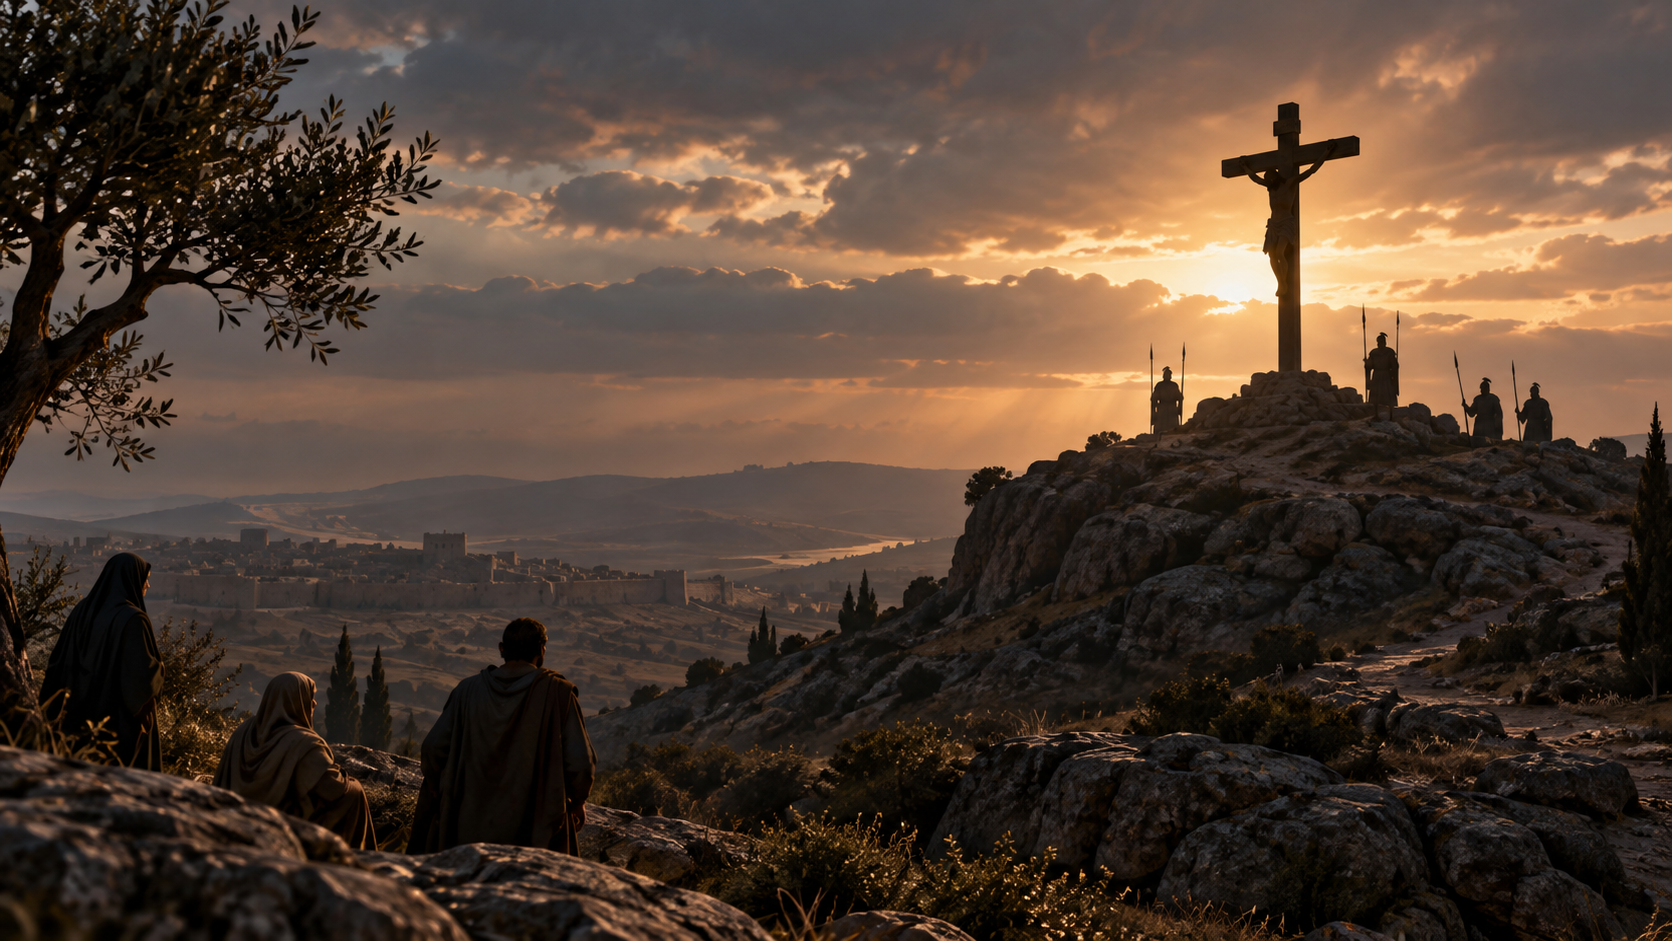
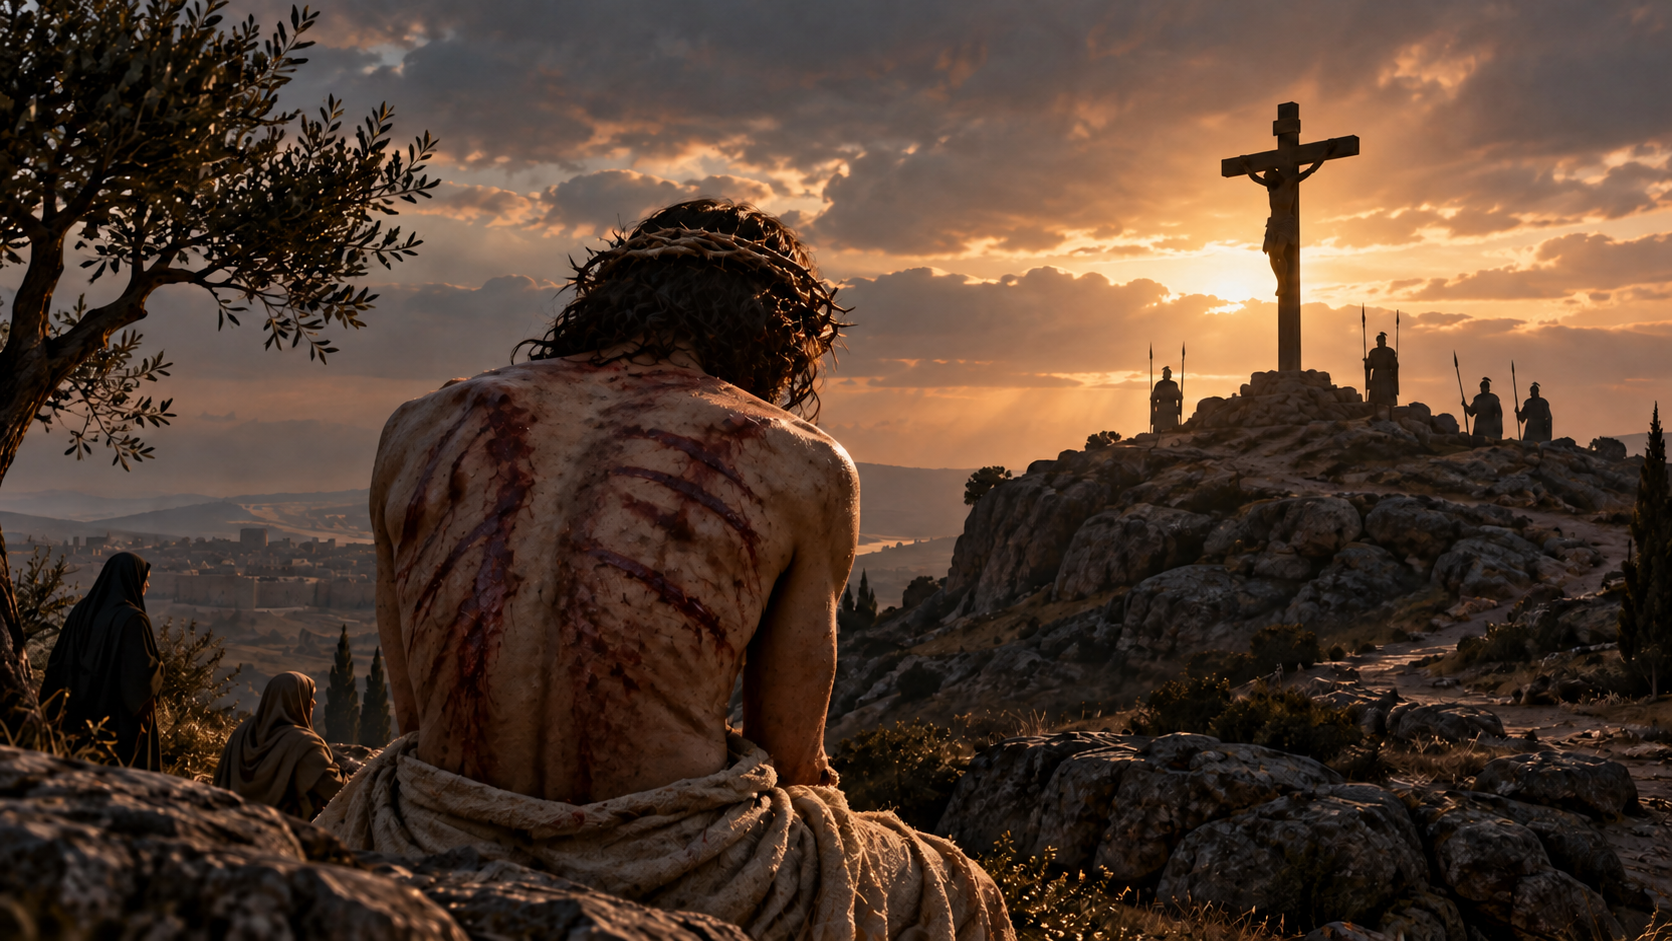
Adjust prophecy images and remove redundant copy

diff --git a/index.html b/index.html
@@ -661,7 +661,7 @@
     .prophecy-list { position: relative; display: grid; gap: 1rem; max-width: 940px; margin: 1.4rem auto 0; padding-left: 2.1rem; }
     .prophecy-list::before { content: ""; position: absolute; top: .7rem; bottom: .7rem; left: .65rem; width: 3px; border-radius: 999px; background: linear-gradient(#b4532d, #dca17b 72%, #6d8da8); }
     .prophecy-card { position: relative; padding: 1rem 1.1rem; border: 1px solid var(--border); border-radius: 15px; background: rgba(255,255,255,.96); box-shadow: 0 9px 22px rgba(26,48,77,.07); }
-    .prophecy-card-image { display: block; width: 100%; max-height: 220px; margin: 0 0 .85rem; border-radius: 10px; object-fit: cover; }
+    .prophecy-card-image { display: block; width: 100%; height: auto; margin: 0 0 .85rem; border-radius: 10px; object-fit: contain; }
     .prophecy-card::before { content: ""; position: absolute; top: 1.18rem; left: -1.82rem; width: .85rem; height: .85rem; border: 3px solid #fff; border-radius: 50%; background: var(--accent); box-shadow: 0 0 0 2px var(--accent); }
     .prophecy-era { margin: 0; color: var(--accent); font-size: .7rem; font-weight: 900; letter-spacing: .07em; text-transform: uppercase; }
     .prophecy-card h3 { margin: .28rem 0 .48rem; color: #24364b; font-size: 1.08rem; }
@@ -870,7 +870,7 @@
     <article class="prophecy-card"><p class="prophecy-era">salmos reales · David</p><h3>El rey ungido y el Señor de David</h3><q>Dijo Jehová á mi Señor: Siéntate á mi diestra, entretanto que pongo tus enemigos por estrado de tus pies.</q><a href="lectura/?obra=rvr1909-salmos&amp;capitulo=110#pasaje-110-1">Salmo 110:1</a><p class="prophecy-note">Jesús cita este salmo al hablar del Mesías (Mateo 22:41–46). También la tradición cristiana lee los Salmos 2, 16 y 22 en clave mesiánica.</p></article>
     <article class="prophecy-card"><p class="prophecy-era">salmos · David</p><h3>El Santo no verá corrupción</h3><q>No dejarás mi alma en el sepulcro; ni permitirás que tu santo vea corrupción.</q><a href="lectura/?obra=rvr1909-salmos&amp;capitulo=16#pasaje-16-10">Salmo 16:10</a><p class="prophecy-note">Hechos 2:25–32 aplica este salmo a la resurrección de Jesús.</p></article>
     <article class="prophecy-card"><img class="prophecy-card-image" src="assets/timeline/profecia-salmo-22.png" alt="La cruz al atardecer y las vestiduras repartidas"><p class="prophecy-era">salmos · David</p><h3>El justo sufriente</h3><q>Repartieron entre sí mis vestidos, y sobre mi ropa echaron suertes.</q><a href="lectura/?obra=rvr1909-salmos&amp;capitulo=22#pasaje-22-1">Salmo 22:1–18</a><p class="prophecy-note">La tradición cristiana relaciona este salmo con la pasión: el clamor del justo, las burlas y el reparto de vestiduras.</p></article>
-    <article class="prophecy-card"><img class="prophecy-card-image" src="assets/timeline/profecia-salmo-22-17.png" alt="Representación simbólica del sufrimiento del justo junto a la cruz"><p class="prophecy-era">poema atribuido a David · alrededor de 1000 a. C.</p><h3>Contar puedo todos mis huesos</h3><q>Contar puedo todos mis huesos; entre tanto, ellos me miran y me observan.</q><a href="lectura/?obra=rvr1909-salmos&amp;capitulo=22#pasaje-22-17">Salmo 22:17</a><p class="prophecy-note">La lectura cristiana relaciona estas palabras del justo sufriente con la crucifixión de Jesús.</p></article>
+    <article class="prophecy-card"><img class="prophecy-card-image" src="assets/timeline/profecia-salmo-22-17.png" alt="Espalda herida y ensangrentada del justo sufriente, con las costillas marcadas y una cruz al fondo"><p class="prophecy-era">poema atribuido a David · alrededor de 1000 a. C.</p><h3>Contar puedo todos mis huesos</h3><q>Contar puedo todos mis huesos; entre tanto, ellos me miran y me observan.</q><a href="lectura/?obra=rvr1909-salmos&amp;capitulo=22#pasaje-22-17">Salmo 22:17</a><p class="prophecy-note">La lectura cristiana relaciona estas palabras del justo sufriente con la crucifixión de Jesús.</p></article>
     <article class="prophecy-card"><p class="prophecy-era">siglo VIII a. C. · Oseas</p><h3>Desde Egipto llamé a mi hijo</h3><q>Cuando Israel era muchacho, yo lo amé, y de Egipto llamé á mi hijo.</q><a href="lectura/?obra=rvr1909-oseas&amp;capitulo=11#pasaje-11-1">Oseas 11:1</a><p class="prophecy-note">Mateo 2:15 relee este texto sobre Israel al narrar el regreso de Jesús desde Egipto.</p></article>
     <article class="prophecy-card"><img class="prophecy-card-image" src="assets/timeline/profecia-isaias-7-14.png" alt="Una madre sostiene a su hijo recién nacido en Judea"><p class="prophecy-era">siglo VIII a. C. · Isaías</p><h3>Emanuel y el heredero de David</h3><q>Una virgen concebirá y dará a luz un hijo, y su nombre será Emanuel.</q><a href="lectura/?obra=rvr1909-isaias&amp;capitulo=7#pasaje-7-14">Isaías 7:14</a><p class="prophecy-note">Isaías también anuncia al niño-rey (9:6–7), al retoño de Isaí (11:1–10) y al Siervo sufriente (Isaías 52:13–53:12).</p></article>
     <article class="prophecy-card"><p class="prophecy-era">siglo VIII a. C. · Isaías</p><h3>El retoño de Jesé</h3><q>Y saldrá una vara del tronco de Isaí, y un vástago retoñará de sus raíces.</q><a href="lectura/?obra=rvr1909-isaias&amp;capitulo=11#pasaje-11-1">Isaías 11:1–10</a><p class="prophecy-note">Presenta al futuro gobernante como descendiente de Isaí, padre de David.</p></article>
@@ -881,7 +881,7 @@
     <article class="prophecy-card"><img class="prophecy-card-image" src="assets/timeline/profecia-zacarias-12-10.png" alt="Jerusalén de luto ante la silueta de una cruz"><p class="prophecy-era">siglo VI–V a. C. · Zacarías</p><h3>Mirarán al que traspasaron</h3><q>…y mirarán a mí, a quien traspasaron, y llorarán como se llora por hijo unigénito…</q><a href="lectura/?obra=rvr1909-zacarias&amp;capitulo=12#pasaje-12-10">Zacarías 12:10</a><p class="prophecy-note">Juan 19:37 relaciona este pasaje con la crucifixión de Jesús.</p></article>
     <article class="prophecy-card"><img class="prophecy-card-image" src="assets/timeline/profecia-zacarias-9-9.png" alt="Jesús entra en Jerusalén montado en un asno"><p class="prophecy-era">siglo VI–V a. C. · Zacarías</p><h3>El rey humilde entra en Jerusalén</h3><q>He aquí, á ti vendrá tu Rey, justo y salvador, humilde, y cabalgando sobre un asno.</q><a href="lectura/?obra=rvr1909-zacarias&amp;capitulo=9#pasaje-9-9">Zacarías 9:9</a><p class="prophecy-note">Los evangelios vinculan este pasaje con la entrada de Jesús en Jerusalén.</p></article>
     <article class="prophecy-card"><p class="prophecy-era">tradición apócrifa · 1 Enoc</p><h3>El Elegido y el Hijo del Hombre</h3><q>Antes que fuesen creados el sol y las señales… el nombre del Hijo del Hombre fue nombrado ante el Señor de los Espíritus.</q><a href="lectura/?obra=1-enoc-es&amp;capitulo=48">1 Enoc 48:2–7</a><p class="prophecy-note">Texto apócrifo: no forma parte del canon bíblico de la mayoría de las tradiciones cristianas, pero muestra el desarrollo judío de imágenes sobre el “Hijo del Hombre”.</p></article>
-    <article class="prophecy-card"><img class="prophecy-card-image" src="assets/timeline/profecia-colosenses-1-15.png" alt="Cristo como figura luminosa en medio de la creación"><p class="prophecy-era">testimonio apostólico · siglo I d. C.</p><h3>El Cristo sobre toda la creación</h3><q>Él es la imagen del Dios invisible, el primogénito sobre toda creación.</q><a href="lectura/?obra=rvr1909-colosenses&amp;capitulo=1#pasaje-1-15">Colosenses 1:15–20</a><p class="prophecy-note">No es una profecía previa a Jesús: es una confesión apostólica posterior que presenta a Cristo como preeminente sobre la creación.</p></article>
+    <article class="prophecy-card"><img class="prophecy-card-image" src="assets/timeline/profecia-colosenses-1-15.png" alt="Cristo como figura luminosa en medio de la creación"><p class="prophecy-era">testimonio apostólico · siglo I d. C.</p><q>Él es la imagen del Dios invisible, el primogénito sobre toda creación.</q><a href="lectura/?obra=rvr1909-colosenses&amp;capitulo=1#pasaje-1-15">Colosenses 1:15–20</a></article>
   </div>
 </section>
 
